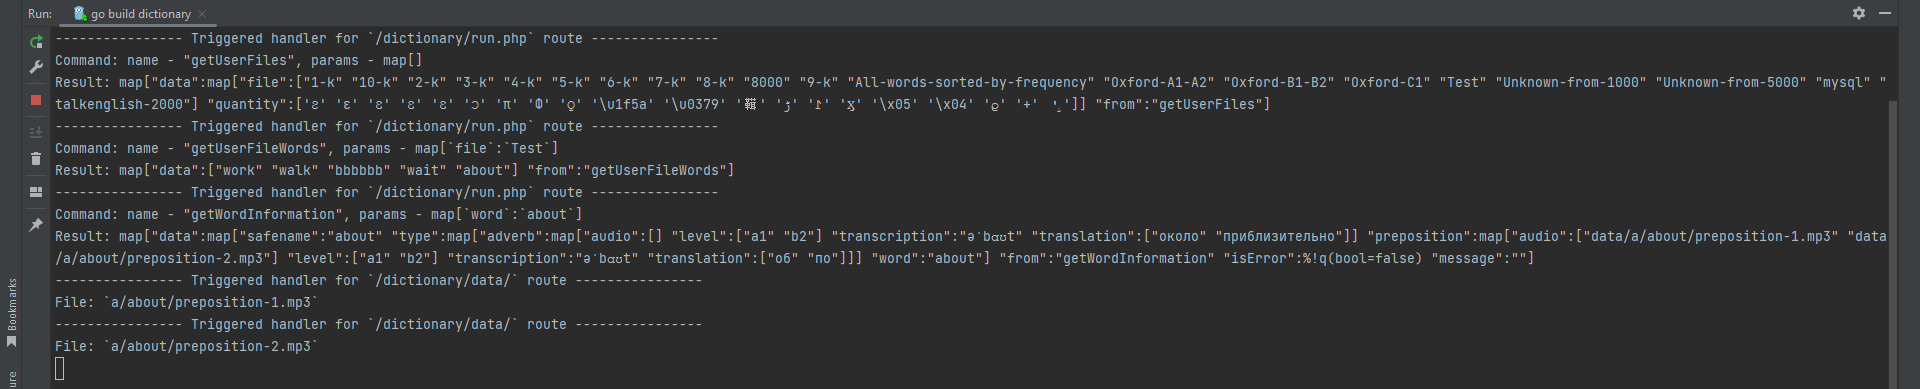
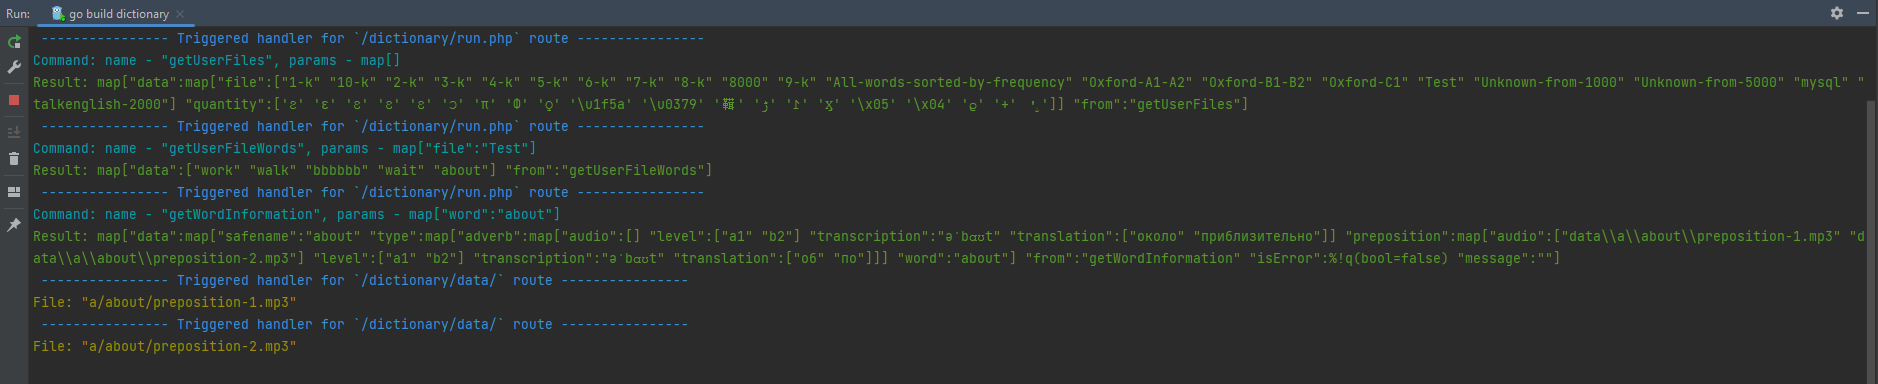
update

Changed region(s): [[0.0, 0.2812, 1.0, 1.0], [0.0, 0.0, 0.9883, 0.2812], [0.9574, 0.0, 1.0, 0.0625]]

diff --git a/main.go b/main.go
@@ -4,8 +4,8 @@ package main
 
 import (
 	cmd "dictionary/command"
-	"dictionary/library"
-	strg "dictionary/storage"
+	lib "dictionary/library"
+	stor "dictionary/storage"
 	"encoding/json"
 	"fmt"
 	"net/http"
@@ -18,7 +18,7 @@ func main() {
 
 	http.HandleFunc("/dictionary/run.php", func(writer http.ResponseWriter, request *http.Request) {
 
-		fmt.Println("---------------- Triggered handler for `/dictionary/run.php` route ----------------")
+		fmt.Println(lib.ColorBlue, "---------------- Triggered handler for `/dictionary/run.php` route ----------------", lib.ColorReset)
 
 		urlStruct, err := url.Parse(request.RequestURI)
 		if err != nil {
@@ -41,12 +41,12 @@ func main() {
 
 		command := getCommand(payload)
 		if command == nil {
-			fmt.Printf("Unknown command name: %q\n", payload.Name)
+			fmt.Printf("%sUnknown command: %q%s\n", lib.ColorRed, payload.Name, lib.ColorReset)
 			return
 		}
 
 		result := command.Execute(payload.Params)
-		fmt.Printf("Result: %q\n", result)
+		fmt.Printf("%sResult: %q%s\n", lib.ColorGreen, result, lib.ColorReset)
 
 		writer.Header().Set("Content-Type", "application/json")
 		err = json.NewEncoder(writer).Encode(&result)
@@ -58,13 +58,13 @@ func main() {
 
 	http.HandleFunc("/dictionary/data/", func(writer http.ResponseWriter, request *http.Request) {
 
-		fmt.Println("---------------- Triggered handler for `/dictionary/data/` route ----------------")
+		fmt.Println(lib.ColorBlue, "---------------- Triggered handler for `/dictionary/data/` route ----------------", lib.ColorReset)
 
 		if strings.HasPrefix(request.URL.Path, "/dictionary/data/") {
 			filePath := request.URL.Path[len("/dictionary/data/"):]
 			if extension := filepath.Ext(filePath); extension == ".mp3" {
 
-				fmt.Printf("File: %#q\n", filePath)
+				fmt.Printf("%sFile: %q%s\n", lib.ColorYellow, filePath, lib.ColorReset)
 
 				http.ServeFile(writer, request, "data/"+filePath)
 				return
@@ -84,7 +84,7 @@ func main() {
 
 func getCommand(payload cmd.CommandPayload) cmd.CommandInterface {
 
-	fmt.Printf("Command: name - %q, params - %#q\n", payload.Name, payload.Params)
+	fmt.Printf("%sCommand: name - %q, params - %q%s\n", lib.ColorCyan, payload.Name, payload.Params, lib.ColorReset)
 
 	switch payload.Name {
 	case "getUserFiles":
@@ -94,12 +94,15 @@ func getCommand(payload cmd.CommandPayload) cmd.CommandInterface {
 	case "getLetterWords":
 		return &cmd.GetLetterWordsCommand{}
 	case "getWordInformation":
-		fileManipulator := &library.FileManipulator{}
-		storage := strg.NewWordFileStorage(fileManipulator)
-		loader := strg.NewWordDataLoader(storage)
+		fileManipulator := &lib.FileManipulator{}
+		storage := stor.NewWordFileStorage(fileManipulator)
+		loader := stor.NewWordDataLoader(storage)
 		return cmd.NewGetWordInformationCommand(loader)
 	case "getWordDetails":
-		return &cmd.GetWordDetailsCommand{}
+		fileManipulator := &lib.FileManipulator{}
+		storage := stor.NewWordFileStorage(fileManipulator)
+		loader := stor.NewWordDataLoader(storage)
+		return cmd.NewGetWordDetailsCommand(loader)
 	case "updateWordDetails":
 		return &cmd.UpdateWordDetailsCommand{}
 	default:

diff --git a/dto/word_type_data.go b/dto/word_type_data.go
@@ -1,0 +1,10 @@
+//@author Stanislav Polaniev <spolanyev@gmail.com>
+
+package dto
+
+type WordTypeData struct {
+	Transcription string
+	Translation   []string
+	Level         *[]string //pointer to make `Level` optional
+	Audio         []string
+}

diff --git a/dto/word_information_data.go b/dto/word_information_data.go
@@ -1,0 +1,9 @@
+//@author Stanislav Polaniev <spolanyev@gmail.com>
+
+package dto
+
+type WordInformationData struct {
+	SafeName string
+	Word     string
+	Type     map[PartOfSpeech]WordTypeData
+}

diff --git a/dto/part_of_speech.go b/dto/part_of_speech.go
@@ -1,0 +1,5 @@
+//@author Stanislav Polaniev <spolanyev@gmail.com>
+
+package dto
+
+type PartOfSpeech string
